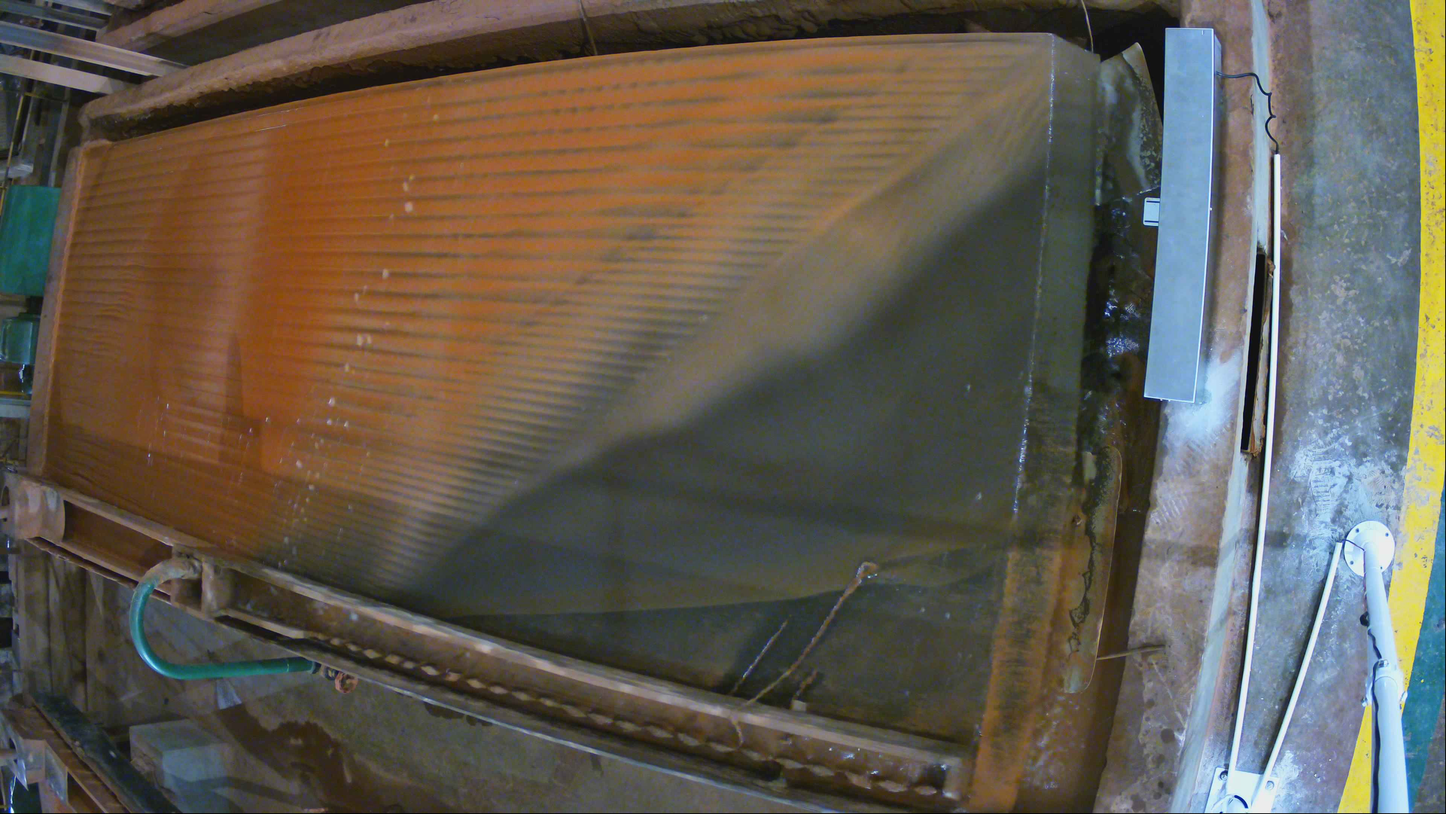
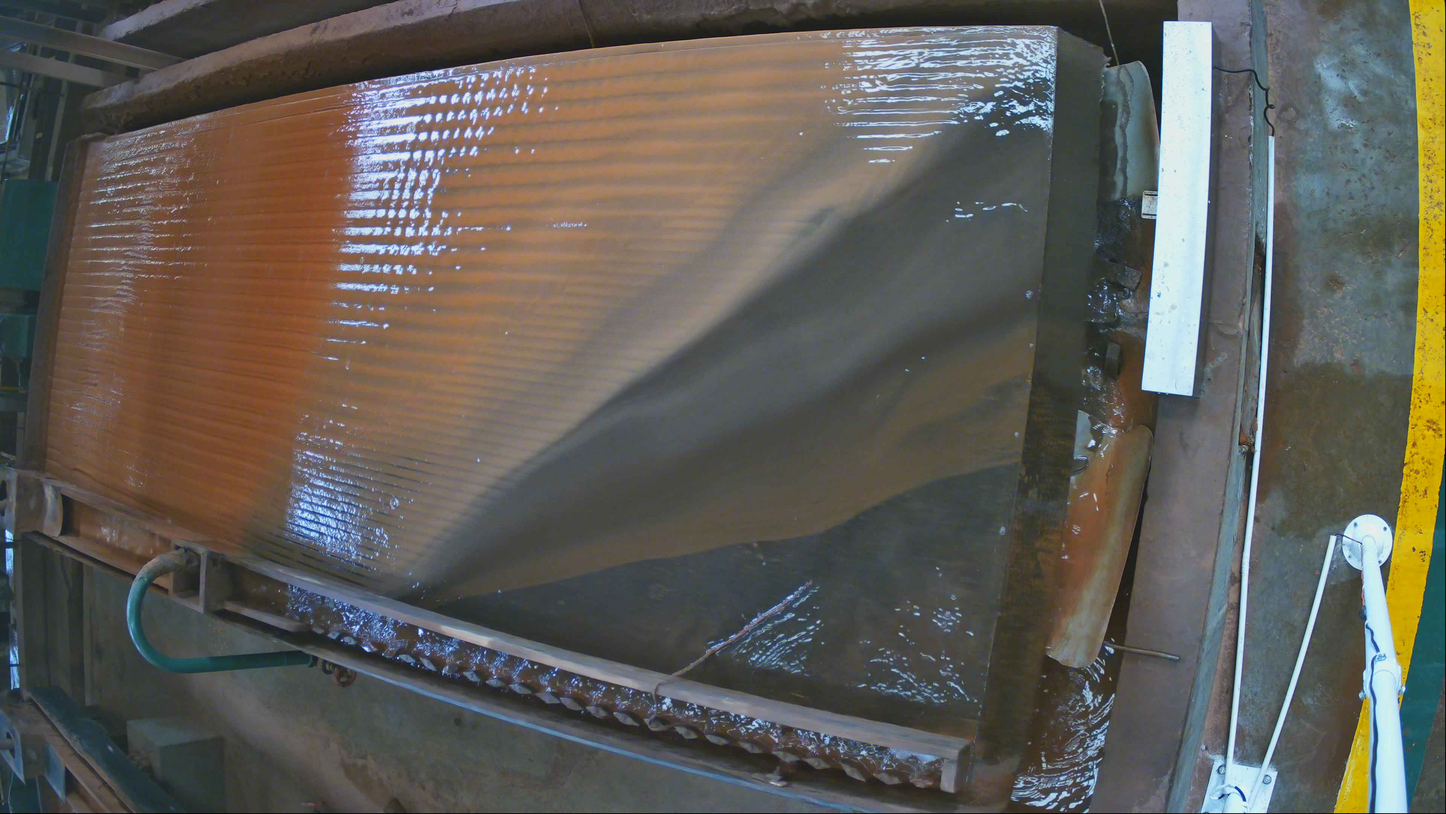
* deal with Strong Reflection, but result is random

diff --git a/main.go b/main.go
@@ -101,12 +101,20 @@ func main() {
 			return scale3list[i].sd > scale3list[j].sd
 		})
 
+		if len(scale3list) == 0 {
+			lk.Log2F(true, "failed")
+			lk.Log("Error 1, Cannot find scale, @%s", file)
+			// return
+			continue
+		}
+
 		Indices := []int{}
 		for _, s3 := range scale3list {
 			p := s3.index
 			ave := aves[p]
 			if p >= 3 && p <= len(scale3list) {
 				// *** up bright, down dark ***
+				// normal image
 				if ave > aves[p+1] && ave > aves[p+2] && ave > aves[p+3] {
 					if aves[p-3] > ave && aves[p-2] > ave && aves[p-1] > ave {
 						if p > 10 && p < len(aves)-10 {
@@ -114,6 +122,7 @@ func main() {
 								absDiffFloat(aves[p-9], aves[0]) < 20 &&
 								absDiffFloat(aves[p+9], aves[0]) > 40 {
 								Indices = append(Indices, p)
+								continue
 							}
 						}
 					}
@@ -125,11 +134,38 @@ func main() {
 		// 	return Indices[i] < Indices[j]
 		// })
 
+		// check strong reflection area
 		if len(Indices) == 0 {
-			// lk.Log2F(true, "failed")
-			// lk.Log("Cannot find scale, @%s", file)
-			// return
-			continue
+
+			thBright := 150.0
+			thContrast := 15.0
+
+			for i := 3; i < 50; i++ {
+				p := i
+				ave := aves[i]
+				if aves[p-1] > thBright || aves[p-2] > thBright || aves[p-3] > thBright {
+					fmt.Println("strong reflection 1")
+					if ave > aves[p+1] && ave > aves[p+2] && ave > aves[p+3] {
+						fmt.Println("strong reflection 2")
+						if absDiffFloat(ave, aves[p+1]) > thContrast &&
+							absDiffFloat(ave, aves[p+2]) > thContrast &&
+							absDiffFloat(ave, aves[p+3]) > thContrast {
+							fmt.Println("strong reflection 3")
+							if absDiffFloat(aves[p+1], aves[p+2]) < thContrast*2 &&
+								absDiffFloat(aves[p+2], aves[p+3]) < thContrast*2 {
+								Indices = append(Indices, p)
+								break
+							}
+						}
+					}
+				}
+			}
+		}
+
+		if len(Indices) == 0 {
+			lk.Log2F(true, "failed")
+			lk.Log("Error 2, Cannot find scale, @%s", file)
+			continue // next image
 		}
 
 		Index := Indices[0]

diff --git a/color_test.go b/color_test.go
@@ -17,7 +17,7 @@ func TestSplitRGBA(t *testing.T) {
 
 	os.MkdirAll("./out", os.ModePerm)
 
-	img := loadImage("./cfg/roi-(2500,50)-(3000,2162).jpg")
+	img := loadImage("./out/sample-roi.jpg")
 	fmt.Println(img.Bounds())
 
 	r, g, b, a := SplitRGBA(img)
@@ -29,5 +29,5 @@ func TestSplitRGBA(t *testing.T) {
 	// ///
 
 	com := CompositeRGBA(r, g, b, a)
-	saveJPG(com, "./out/com1.png")
+	saveJPG(com, "./out/com1.jpg")
 }
